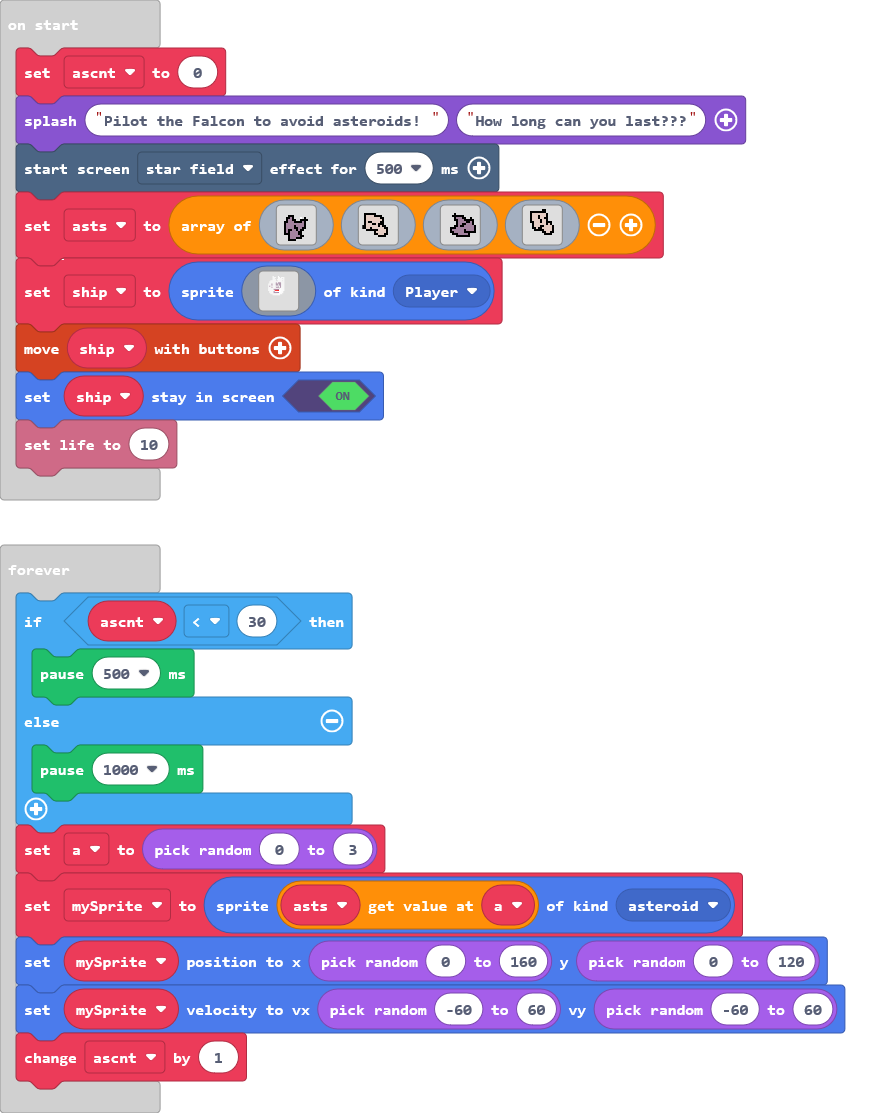
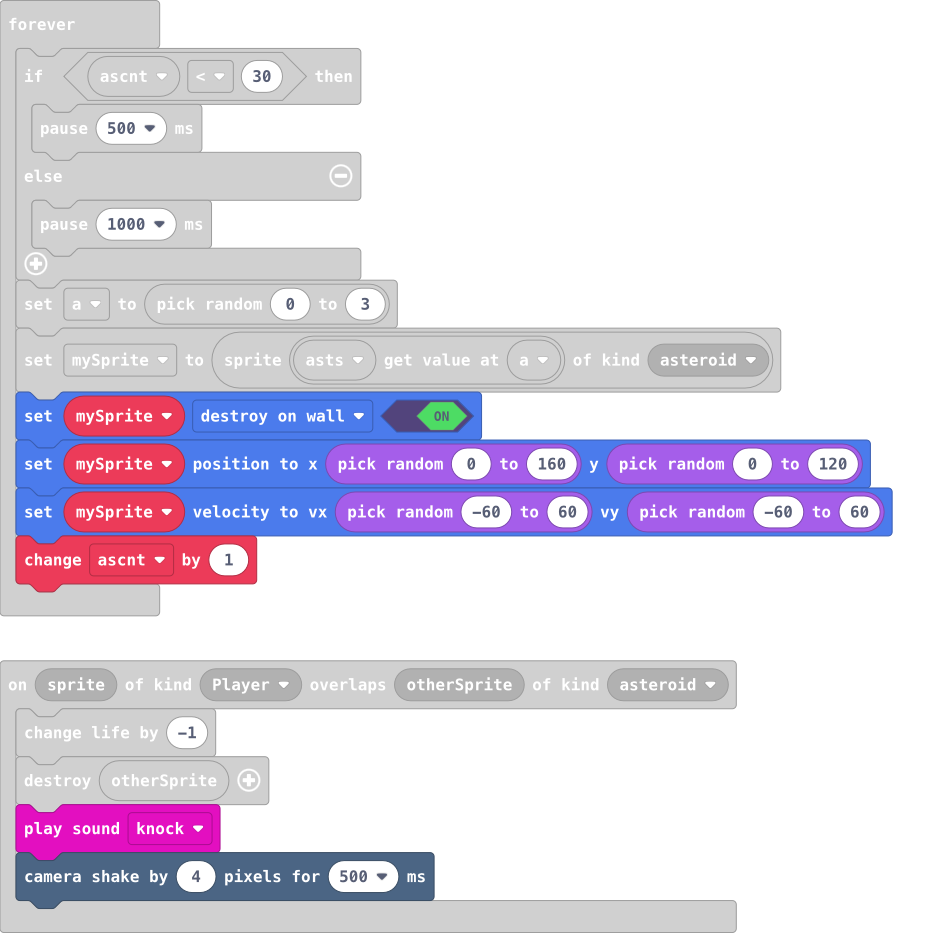
Update main.blocks, main.ts

diff --git a/main.ts b/main.ts
@@ -28,6 +28,8 @@ controller.A.onEvent(ControllerButtonEvent.Pressed, function () {
 sprites.onOverlap(SpriteKind.Player, SpriteKind.asteroid, function (sprite, otherSprite) {
     info.changeLifeBy(-1)
     otherSprite.destroy()
+    music.knock.play()
+    scene.cameraShake(4, 500)
 })
 sprites.onOverlap(SpriteKind.asteroid, SpriteKind.asteroid, function (sprite, otherSprite) {
     sprite.destroy()
@@ -89,6 +91,7 @@ forever(function () {
     }
     a = randint(0, 3)
     mySprite = sprites.create(asts[a], SpriteKind.asteroid)
+    mySprite.setFlag(SpriteFlag.DestroyOnWall, true)
     mySprite.setPosition(randint(0, 160), randint(0, 120))
     mySprite.setVelocity(randint(-60, 60), randint(-60, 60))
     ascnt += 1
